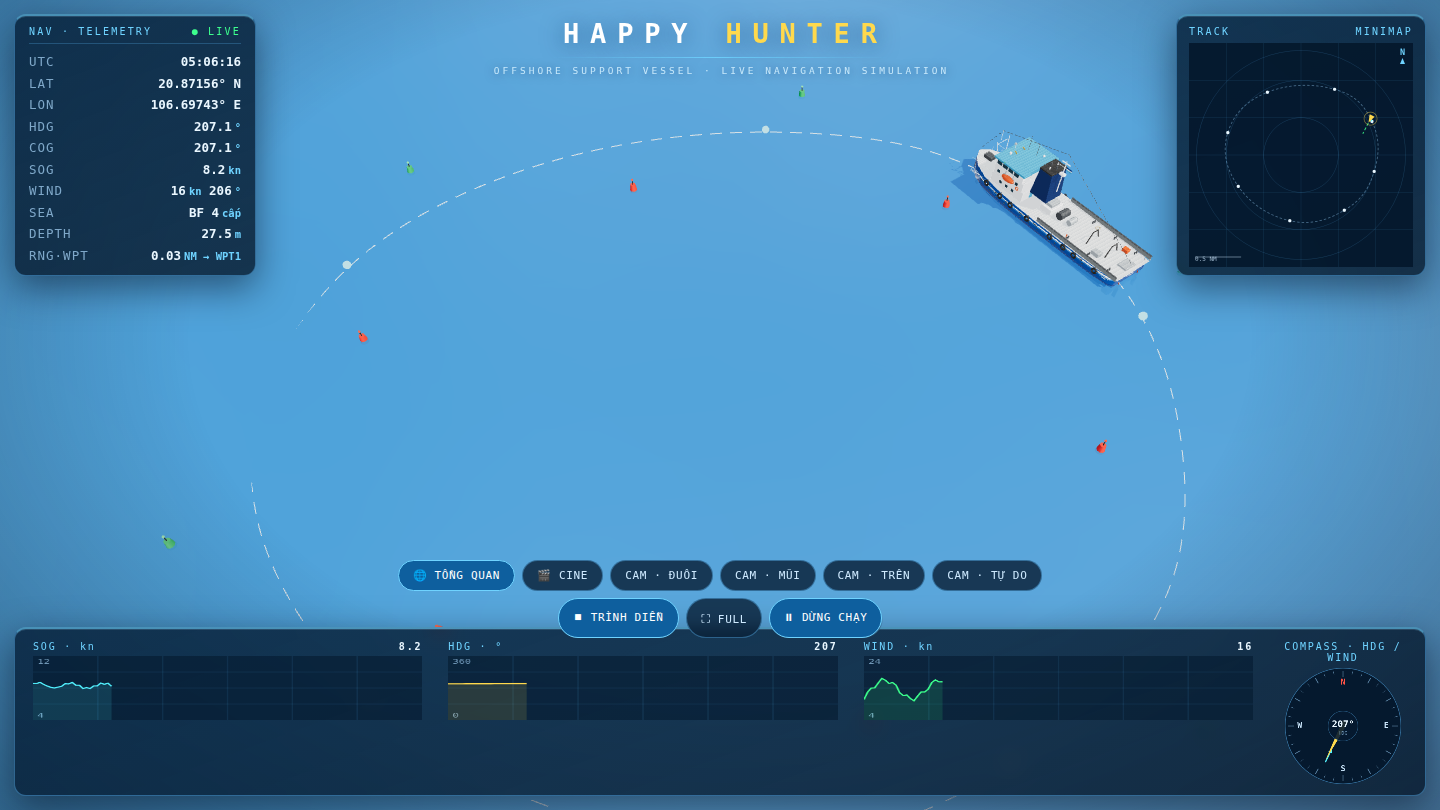
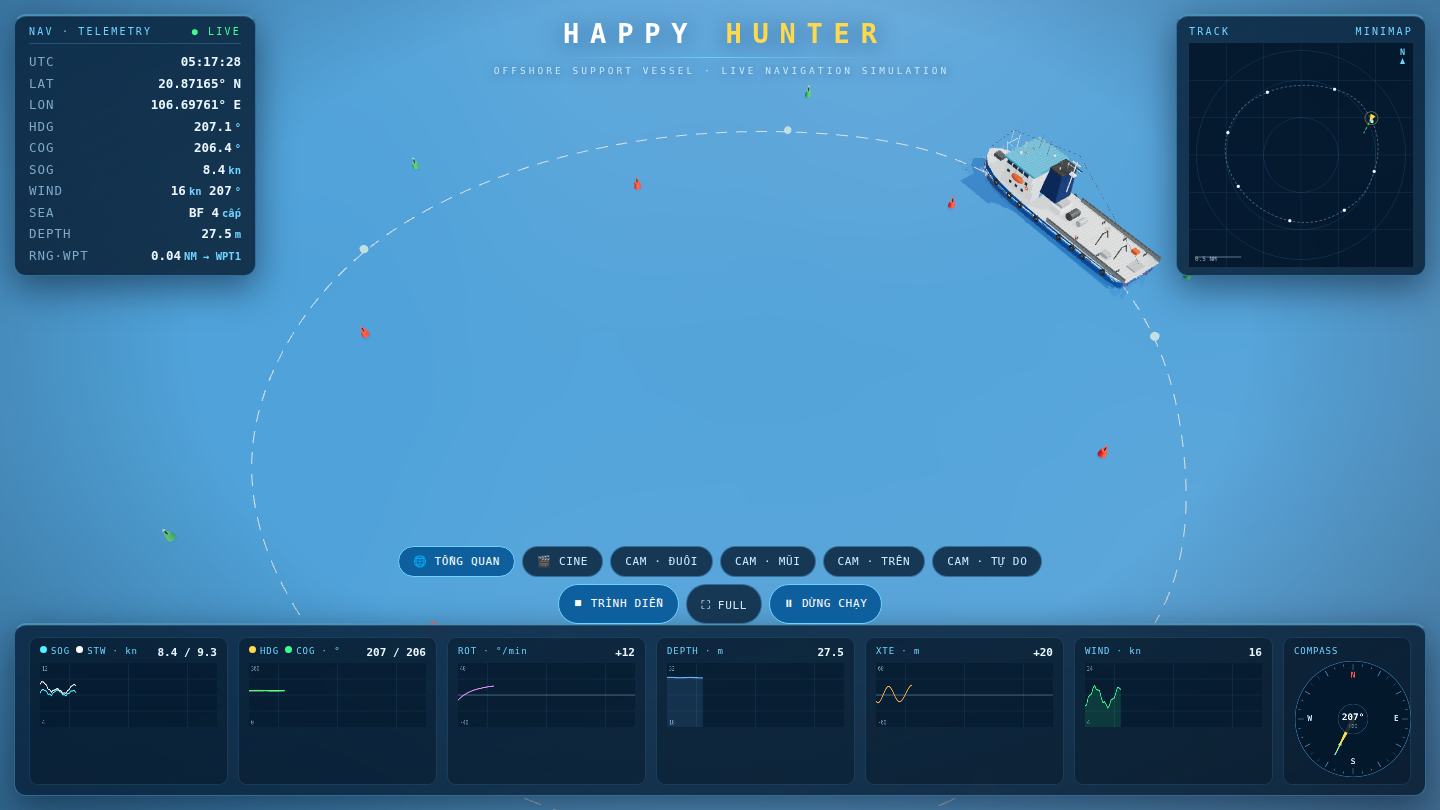
Six maritime charts in separated console tiles: SOG/STW, HDG/COG, ROT, DEPTH, XTE (real, from steering weave), WIND

diff --git a/index.html b/index.html
@@ -32,12 +32,15 @@
   #minimapBox .hd { font-size:10px; letter-spacing:.22em; color:#6fd3ff; margin-bottom:6px; display:flex; justify-content:space-between; }
   #minimap { display:block; width:224px; height:224px; }
   /* charts, bottom-left */
-  #console { left:14px; right:14px; bottom:14px; padding:12px 18px 10px;
-    display:flex; gap:26px; align-items:flex-start; }
-  #console .cell { flex:1; min-width:0; }
+  #console { left:14px; right:14px; bottom:14px; padding:12px 14px 10px;
+    display:flex; gap:10px; align-items:stretch; }
+  #console .cell { flex:1; min-width:0; background:rgba(3,16,30,.38); border:1px solid rgba(96,190,255,.16);
+    border-radius:9px; padding:8px 10px 6px; }
+  #console .cell.compassCell { background:rgba(3,16,30,.38); }
+  #console .dot { display:inline-block; width:7px; height:7px; border-radius:50%; margin:0 4px 1px 0; }
   #console .cell.compassCell { flex:0 0 128px; text-align:center; }
-  #console .hd { font-size:10px; letter-spacing:.18em; color:#6fd3ff; display:flex; justify-content:space-between; margin-bottom:4px; }
-  #console .hd b { color:#eaf7ff; }
+  #console .hd { font-size:9px; letter-spacing:.1em; color:#6fd3ff; display:flex; justify-content:space-between; margin-bottom:4px; white-space:nowrap; }
+  #console .hd b { color:#eaf7ff; font-size:11px; letter-spacing:0; }
   .chart { display:block; width:100%; height:64px; }
   #compass { display:block; width:118px; height:118px; margin:0 auto; }
   #vignette { position:fixed; inset:0; z-index:4; pointer-events:none;
@@ -52,7 +55,7 @@
   #brand .sub { font-size:9.5px; letter-spacing:.32em; padding-left:.32em; color:rgba(210,240,255,.9);
     text-shadow:0 1px 10px rgba(0,50,100,.6); }
   /* controls, bottom-centre */
-  #controls { position:fixed; z-index:10; left:50%; bottom:172px; transform:translateX(-50%); display:flex; gap:7px; }
+  #controls { position:fixed; z-index:10; left:50%; bottom:186px; transform:translateX(-50%); display:flex; gap:7px; }
   #controls button { font:inherit; font-size:11px; letter-spacing:.06em; cursor:pointer;
     color:#cfeaff; background:rgba(5,26,48,.78); border:1px solid rgba(96,190,255,.4);
     border-radius:999px; padding:8px 14px; backdrop-filter:blur(8px); transition:all .18s; }
@@ -107,12 +110,24 @@
 
 <div class="hud" id="console">
   <div class="cell">
-    <div class="hd"><span>SOG · kn</span><b id="cSogV">--</b></div>
+    <div class="hd"><span><i class="dot" style="background:#53f2ff"></i>SOG <i class="dot" style="background:#ffffff"></i>STW · kn</span><b id="cSogV">--</b></div>
     <canvas class="chart" id="cSog" width="528" height="132"></canvas>
   </div>
   <div class="cell">
-    <div class="hd"><span>HDG · °</span><b id="cHdgV">--</b></div>
+    <div class="hd"><span><i class="dot" style="background:#ffd94d"></i>HDG <i class="dot" style="background:#3dff8e"></i>COG · °</span><b id="cHdgV">--</b></div>
     <canvas class="chart" id="cHdg" width="528" height="132"></canvas>
+  </div>
+  <div class="cell">
+    <div class="hd"><span>ROT · °/min</span><b id="cRotV">--</b></div>
+    <canvas class="chart" id="cRot" width="528" height="132"></canvas>
+  </div>
+  <div class="cell">
+    <div class="hd"><span>DEPTH · m</span><b id="cDepthV">--</b></div>
+    <canvas class="chart" id="cDepth" width="528" height="132"></canvas>
+  </div>
+  <div class="cell">
+    <div class="hd"><span>XTE · m</span><b id="cXteV">--</b></div>
+    <canvas class="chart" id="cXte" width="528" height="132"></canvas>
   </div>
   <div class="cell">
     <div class="hd"><span>WIND · kn</span><b id="cWindV">--</b></div>
@@ -456,6 +471,7 @@ function respawnSpray(i) {
 /* ============ navigation simulation ============ */
 const LAT0 = 20.8650, LON0 = 106.6840, M_PER_UNIT = 15;
 let u = 0, sailing = true, headingDeg = 0, sogKn = 0, windNow = 13, foamFade = 0;
+let cogDeg = 0, rotNow = 0, xteNow = 0, stwNow = 0, prevHeading = 0;
 const LOOP_SEC = 170;
 const shipPos = new THREE.Vector3(), prevPos = new THREE.Vector3();
 let firstFrame = true;
@@ -475,10 +491,11 @@ function nearestWptDist(p) {
 function sensors(t) {
   const turn = Math.abs(Math.sin(u * Math.PI * 4));
   const sog = 8.4 - turn * 1.6 + Math.sin(t * 0.35) * 0.35 + Math.sin(t * 1.7) * 0.12;
+  const stw = sog + 0.7 + Math.sin(t * 0.11) * 0.55;
   const wind = 13.5 + Math.sin(t * 0.21 + 1.3) * 3.2 + Math.sin(t * 0.9) * 0.8;
   const windDir = (205 + Math.sin(t * 0.05) * 25 + 360) % 360;
   const depth = 21 + Math.sin(shipPos.x * 0.021) * 4.5 + Math.cos(shipPos.z * 0.017) * 3.5;
-  return { sog, wind, windDir, depth };
+  return { sog, stw, wind, windDir, depth };
 }
 function beaufort(kn) { return kn < 1 ? 0 : kn < 4 ? 1 : kn < 7 ? 2 : kn < 11 ? 3 : kn < 17 ? 4 : kn < 22 ? 5 : 6; }
 
@@ -640,31 +657,46 @@ function drawCompass(windDir) {
 }
 
 /* ============ charts ============ */
-function makeChart(id) {
+function makeChart(id, colors) {
   const ctx = document.getElementById(id).getContext('2d');
-  return { ctx, data: [], push(v) { this.data.push(v); if (this.data.length > 110) this.data.shift(); } };
+  return { ctx, lines: colors.map(c => ({ color: c, data: [] })) };
 }
-const chSog = makeChart('cSog'), chHdg = makeChart('cHdg'), chWind = makeChart('cWind');
-function drawChart(ch, min, max, color, fill) {
-  const { ctx, data } = ch, W = 528, H = 132;
+function pushChart(ch, vals) {
+  ch.lines.forEach((L, i) => { L.data.push(vals[i]); if (L.data.length > 110) L.data.shift(); });
+}
+const chSpd = makeChart('cSog', ['#53f2ff', '#ffffff']);
+const chHdgCog = makeChart('cHdg', ['#ffd94d', '#3dff8e']);
+const chRot = makeChart('cRot', ['#e08fff']);
+const chDepth = makeChart('cDepth', ['#6fb7ff']);
+const chXte = makeChart('cXte', ['#ffb04d']);
+const chWind = makeChart('cWind', ['#3dff8e']);
+function drawChart(ch, min, max, opts = {}) {
+  const { ctx } = ch, W = 528, H = 132;
   ctx.clearRect(0, 0, W, H);
   ctx.fillStyle = 'rgba(4,24,44,0.55)'; ctx.fillRect(0, 0, W, H);
   ctx.strokeStyle = 'rgba(96,190,255,0.18)'; ctx.lineWidth = 1;
   for (let i = 1; i < 4; i++) { ctx.beginPath(); ctx.moveTo(0, H * i / 4); ctx.lineTo(W, H * i / 4); ctx.stroke(); }
   for (let i = 1; i < 6; i++) { ctx.beginPath(); ctx.moveTo(W * i / 6, 0); ctx.lineTo(W * i / 6, H); ctx.stroke(); }
+  if (opts.zero && min < 0 && max > 0) {
+    const zy = H - (0 - min) / (max - min) * (H - 12) - 6;
+    ctx.strokeStyle = 'rgba(207,234,255,0.45)'; ctx.lineWidth = 1.4;
+    ctx.beginPath(); ctx.moveTo(0, zy); ctx.lineTo(W, zy); ctx.stroke();
+  }
   ctx.fillStyle = 'rgba(127,168,201,0.9)'; ctx.font = '14px monospace';
   ctx.fillText(max.toFixed(0), 6, 16); ctx.fillText(min.toFixed(0), 6, H - 5);
-  if (data.length < 2) return;
-  /* filled area under the line — modern look */
-  ctx.beginPath();
-  data.forEach((v, i) => {
-    const x = i / 109 * W, y = H - (v - min) / (max - min) * (H - 12) - 6;
-    i ? ctx.lineTo(x, y) : ctx.moveTo(x, y);
-  });
-  ctx.strokeStyle = color; ctx.lineWidth = 2.4; ctx.stroke();
-  ctx.lineTo((data.length - 1) / 109 * W, H); ctx.lineTo(0, H); ctx.closePath();
-  ctx.fillStyle = fill;
-  ctx.fill();
+  for (const L of ch.lines) {
+    if (L.data.length < 2) continue;
+    ctx.beginPath();
+    L.data.forEach((v, i) => {
+      const x = i / 109 * W, y = H - (v - min) / (max - min) * (H - 12) - 6;
+      i ? ctx.lineTo(x, y) : ctx.moveTo(x, y);
+    });
+    ctx.strokeStyle = L.color; ctx.lineWidth = 2.3; ctx.stroke();
+    if (opts.fill && ch.lines.length === 1) {
+      ctx.lineTo((L.data.length - 1) / 109 * W, H); ctx.lineTo(0, H); ctx.closePath();
+      ctx.fillStyle = opts.fill; ctx.fill();
+    }
+  }
 }
 
 /* ============ HUD ============ */
@@ -679,16 +711,19 @@ function updateHud(t) {
   el('tLat').textContent = fmtLat(lat);
   el('tLon').textContent = fmtLon(lon);
   el('tHdg').innerHTML = headingDeg.toFixed(1) + '<em>°</em>';
-  el('tCog').innerHTML = headingDeg.toFixed(1) + '<em>°</em>';
+  el('tCog').innerHTML = cogDeg.toFixed(1) + '<em>°</em>';
   el('tSog').innerHTML = s.sog.toFixed(1) + '<em>kn</em>';
   el('tWind').innerHTML = s.wind.toFixed(0) + '<em>kn</em> ' + s.windDir.toFixed(0) + '<em>°</em>';
   el('tSea').innerHTML = 'BF ' + beaufort(s.wind) + '<em>cấp</em>';
   el('tDepth').innerHTML = s.depth.toFixed(1) + '<em>m</em>';
   el('tRng').innerHTML = (rng / 1852).toFixed(2) + '<em>NM → WPT' + wpt + '</em>';
-  el('cSogV').textContent = s.sog.toFixed(1);
-  el('cHdgV').textContent = headingDeg.toFixed(0);
+  el('cSogV').textContent = s.sog.toFixed(1) + ' / ' + s.stw.toFixed(1);
+  el('cHdgV').textContent = headingDeg.toFixed(0) + ' / ' + cogDeg.toFixed(0);
+  el('cRotV').textContent = (rotNow >= 0 ? '+' : '') + rotNow.toFixed(0);
+  el('cDepthV').textContent = s.depth.toFixed(1);
+  el('cXteV').textContent = (xteNow >= 0 ? '+' : '') + xteNow.toFixed(0);
   el('cWindV').textContent = s.wind.toFixed(0);
-  sogKn = s.sog; windNow = s.wind;
+  sogKn = s.sog; windNow = s.wind; stwNow = s.stw;
   window.__sog = s.sog; window.__hdg = headingDeg; window.__trail = trailPts.length;
   drawCompass(s.windDir);
 }
@@ -728,8 +763,21 @@ function animate() {
     if (sailing) u = (u + dt / LOOP_SEC) % 1;
     const p = curve.getPointAt(u);
     const tan = curve.getTangentAt(u);
-    shipPos.set(p.x, 0, p.z);
+    /* imperfect steering: the ship weaves a little around the planned track (real XTE) */
+    const weave = sailing ? Math.sin(u * Math.PI * 6) * 2.0 + Math.sin(t * 0.23) * 1.1 : 0;
+    shipPos.set(p.x - tan.z * weave, 0, p.z + tan.x * weave);
+    xteNow = weave * M_PER_UNIT;
     headingDeg = (Math.atan2(tan.x, tan.z) * 180 / Math.PI + 360) % 360;
+    /* rate of turn from the heading derivative, smoothed */
+    if (dt > 0) {
+      let dh = headingDeg - prevHeading;
+      dh = ((dh + 540) % 360) - 180;
+      const rotInst = sailing ? dh / dt * 60 * 0.18 : 0;
+      rotNow += (THREE.MathUtils.clamp(rotInst, -60, 60) - rotNow) * 0.12;
+    }
+    if (firstFrame) prevHeading = headingDeg; else prevHeading = headingDeg;
+    /* COG drifts off HDG under wind + current (leeway) */
+    cogDeg = (headingDeg + (sailing ? 1.8 * Math.sin(t * 0.07) + 1.1 * Math.sin(t * 0.19 + 2) : 0) + 360) % 360;
     const yaw = Math.atan2(-tan.z, tan.x);
     /* heave/pitch/roll sampled from the real wave field */
     const hC = waveH(shipPos.x, shipPos.z, t);
@@ -809,10 +857,18 @@ function animate() {
     if (t - lastHud > 0.15) { lastHud = t; updateHud(t); drawMinimap(); }
     if (t - lastChart > 0.45) {
       lastChart = t;
-      chSog.push(sogKn); chHdg.push(headingDeg); chWind.push(windNow);
-      drawChart(chSog, 4, 12, '#53f2ff', 'rgba(83,242,255,0.13)');
-      drawChart(chHdg, 0, 360, '#ffd94d', 'rgba(255,217,77,0.13)');
-      drawChart(chWind, 4, 24, '#3dff8e', 'rgba(61,255,142,0.13)');
+      pushChart(chSpd, [sogKn, stwNow]);
+      pushChart(chHdgCog, [headingDeg, cogDeg]);
+      pushChart(chRot, [rotNow]);
+      pushChart(chDepth, [sensors(t).depth]);
+      pushChart(chXte, [xteNow]);
+      pushChart(chWind, [windNow]);
+      drawChart(chSpd, 4, 12);
+      drawChart(chHdgCog, 0, 360);
+      drawChart(chRot, -40, 40, { zero: true });
+      drawChart(chDepth, 10, 32, { fill: 'rgba(111,183,255,0.13)' });
+      drawChart(chXte, -60, 60, { zero: true });
+      drawChart(chWind, 4, 24, { fill: 'rgba(61,255,142,0.13)' });
     }
   }
   controls.update();
